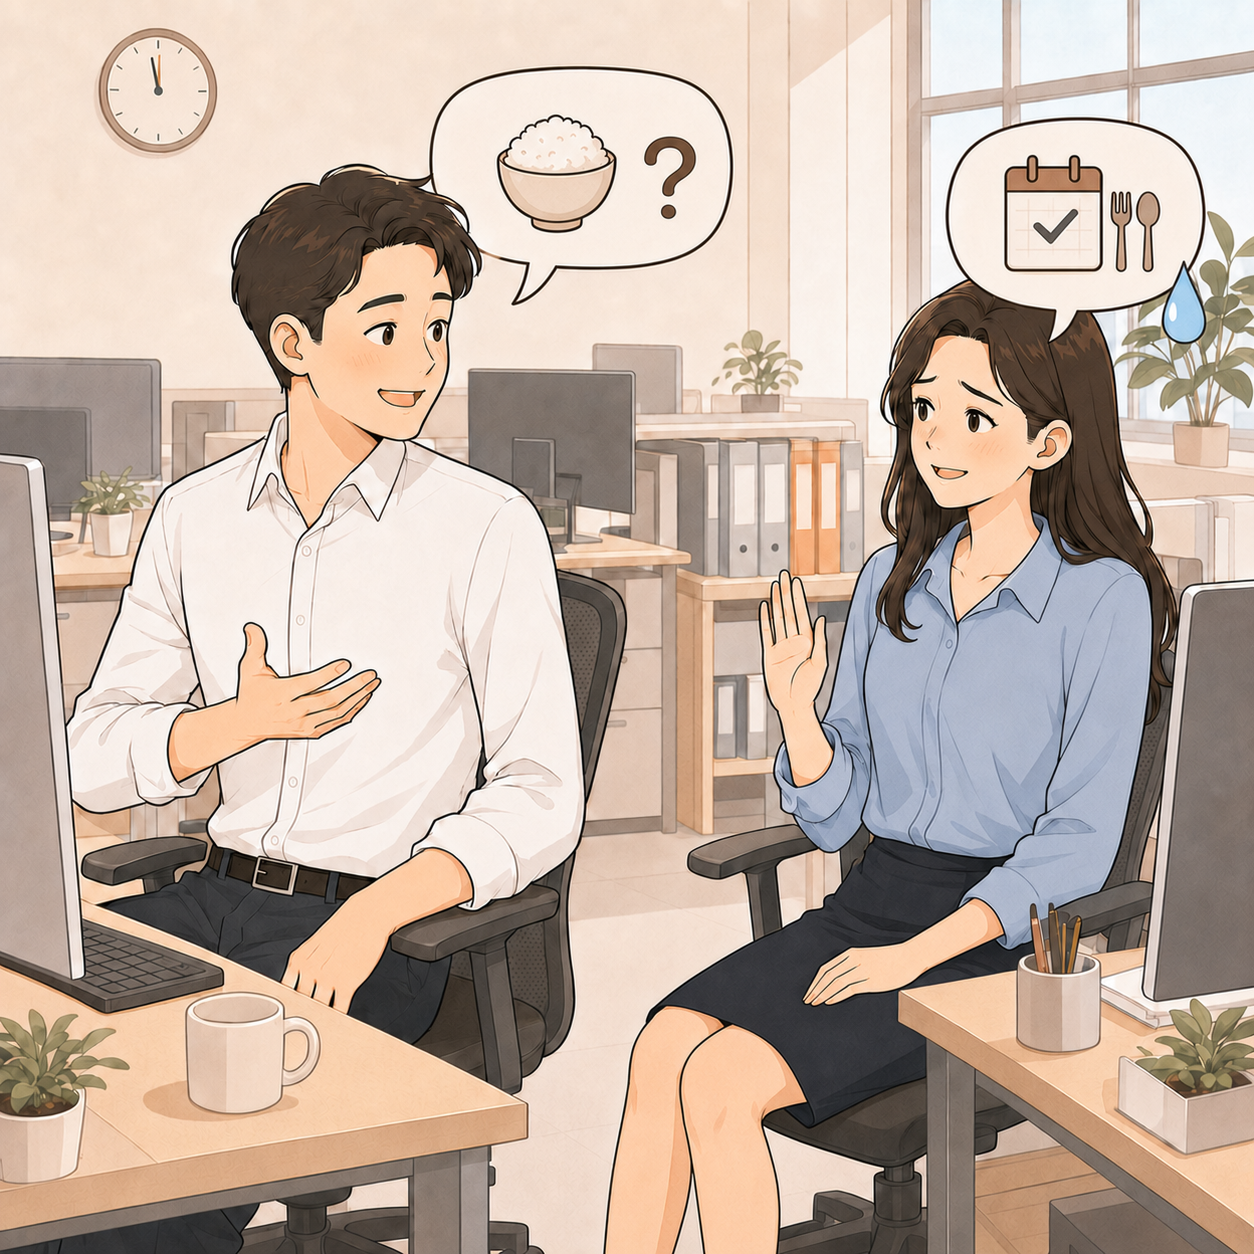
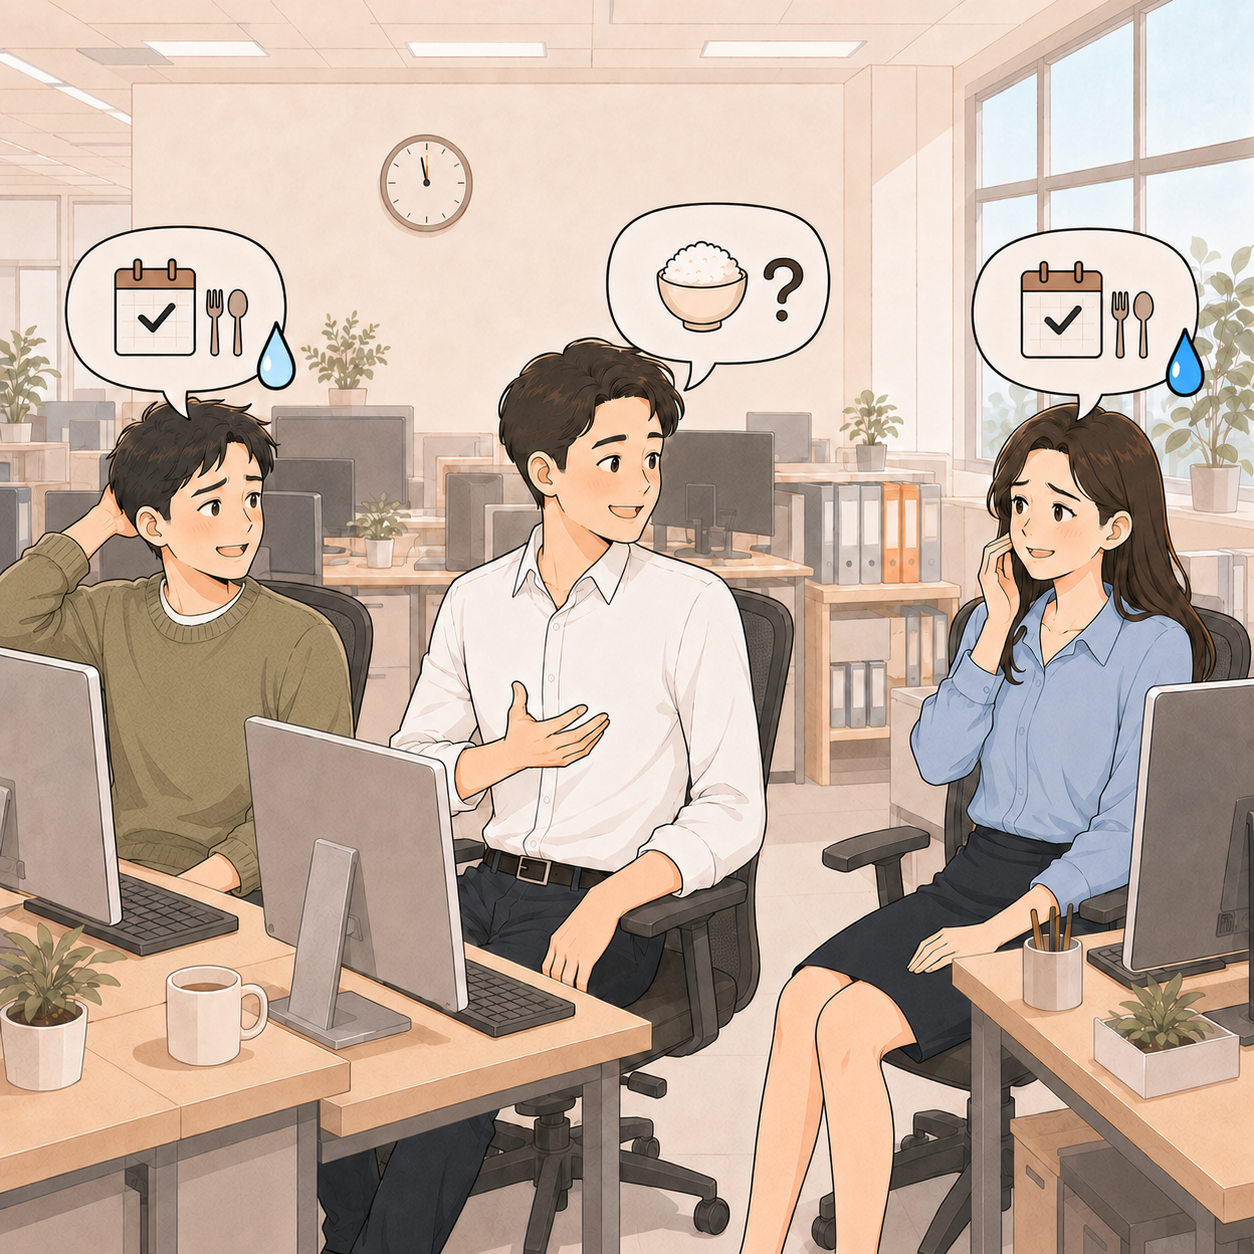
fix: 세션 조회 실패를 로그아웃으로 오인하는 문제 수정, 가이드 첫 화면 문구·이미지 교체
- getSessionUser가 프로필 조회 중 일시적 에러(네트워크 등)를 세션 없음으로 착각해
  로그인 화면으로 튕겨내던 문제를 수정. PGRST116 외 에러는 던지고, UserContext에서
  재시도 후에도 실패해야 비로그인으로 확정하도록 변경
- 안드로이드 앱이 백그라운드에 있는 동안 멈추는 supabase 자동 토큰 갱신을
  appStateChange에 맞춰 직접 켜고 끄도록 추가 (오래 백그라운드에 있다 돌아왔을 때
  토큰 만료로 로그아웃처럼 보이던 문제 방지)
- 온보딩 가이드 첫 화면 이미지·서브 타이틀 교체

diff --git a/src/lib/UserContext.jsx b/src/lib/UserContext.jsx
@@ -4,18 +4,40 @@ import { getSessionUser } from './db'
 
 const UserContext = createContext(null)
 
+const wait = (ms) => new Promise(resolve => setTimeout(resolve, ms))
+
+// getSessionUser()는 세션이 진짜 없을 때만 null을 반환하고, DB 조회가 일시적으로 실패하면
+// 던진다(db.js 참고). 네트워크가 잠깐 끊긴 것뿐인데 그걸 로그아웃으로 오인하지 않도록,
+// 여기서 몇 번 재시도해보고 그래도 안 되면 그때 포기한다.
+async function getSessionUserWithRetry(retries = 2, delayMs = 800) {
+  try {
+    return await getSessionUser()
+  } catch (e) {
+    if (retries <= 0) throw e
+    await wait(delayMs)
+    return getSessionUserWithRetry(retries - 1, delayMs)
+  }
+}
+
 export function UserProvider({ children }) {
   const [user, setUser] = useState(undefined) // undefined = 로딩중
 
   useEffect(() => {
-    // 초기 세션 확인
-    getSessionUser().then(setUser).catch(() => setUser(null))
+    // 초기 세션 확인 — 재시도까지 다 실패하면 그제서야 비로그인으로 확정한다.
+    getSessionUserWithRetry().then(setUser).catch(() => setUser(null))
 
     // 로그인/로그아웃 상태 변경 구독
     const { data: { subscription } } = supabase.auth.onAuthStateChange(async (event) => {
       if (event === 'SIGNED_IN') {
-        const profile = await getSessionUser()
-        setUser(profile)
+        try {
+          const profile = await getSessionUserWithRetry()
+          setUser(profile)
+        } catch (e) {
+          // 로그인 자체는 성공했는데 프로필 조회가 계속 실패하는 경우 — 여기서 null로
+          // 덮어쓰면 애써 로그인한 사용자를 다시 로그인 화면으로 튕겨내게 되니, 기존 상태를
+          // 건드리지 않고 넘어간다(다음 SIGNED_IN이나 재조회 시점에 다시 시도된다).
+          console.error(e)
+        }
       } else if (event === 'SIGNED_OUT') {
         setUser(null)
       }

diff --git a/src/components/NativeDeepLinkHandler.jsx b/src/components/NativeDeepLinkHandler.jsx
@@ -6,6 +6,7 @@ import { Browser } from '@capacitor/browser'
 import { PushNotifications } from '@capacitor/push-notifications'
 import { handleNativeOAuthCallback } from '../lib/db'
 import { takePendingRoute } from '../lib/pendingRoute'
+import { supabase } from '../lib/supabase'
 
 const APP_LINK_HOSTS = ['www.eat-together.net', 'eat-together.net']
 
@@ -80,10 +81,20 @@ export default function NativeDeepLinkHandler() {
       else App.exitApp()
     }).then(handle => { backListenerHandle = handle })
 
+    // 앱이 백그라운드로 가면 JS 타이머가 멈춰서 supabase의 자동 토큰 갱신도 같이 멈춘다.
+    // 오래 백그라운드에 있다가 돌아오면 토큰이 만료된 채로 남아있어 마치 로그아웃된 것처럼
+    // 보이는 문제가 있었다 — 포그라운드/백그라운드 전환에 맞춰 직접 켜고 꺼준다.
+    let stateListenerHandle
+    App.addListener('appStateChange', ({ isActive }) => {
+      if (isActive) supabase.auth.startAutoRefresh()
+      else supabase.auth.stopAutoRefresh()
+    }).then(handle => { stateListenerHandle = handle })
+
     return () => {
       urlListenerHandle?.remove()
       pushActionHandle?.remove()
       backListenerHandle?.remove()
+      stateListenerHandle?.remove()
     }
   }, [navigate])
 

diff --git a/src/lib/db.js b/src/lib/db.js
@@ -173,7 +173,11 @@ export async function getSessionUser() {
     return newProfile
   }
 
-  if (error) return null
+  // PGRST116(행 없음) 외의 에러는 세션이 없다는 뜻이 아니라 조회 자체가 실패했다는 뜻이다.
+  // 여기서 null을 반환하면 호출부(UserContext)가 "로그아웃 상태"로 오인해 로그인 화면으로
+  // 튕겨내는데, 실제로는 supabase 세션이 멀쩡히 살아있는 채로 네트워크만 잠깐 끊긴 경우가
+  // 대부분이다. 진짜 로그인 안 된 상태와 구분할 수 있도록 던져서 호출부가 판단하게 한다.
+  if (error) throw error
   // 최근 로그인 시각 갱신 — 세션 로드를 막지 않도록 결과를 기다리지 않는다.
   supabase.from('users').update({ last_login_at: new Date().toISOString() }).eq('id', data.id).then(() => {})
   return data

diff --git a/src/components/WelcomeGuide.jsx b/src/components/WelcomeGuide.jsx
@@ -13,7 +13,7 @@ const PAGES = [
   {
     shot: guideAsk,
     title: '점약있어요?',
-    body: '점심을 제안했다가 괜히 머쓱했던 순간들.\n\n그런 순간을 조금 더\n편하게 만들고 싶었어요.',
+    body: '서로의 점심 약속을 미리 알고,\n괜히 머쓱해지는 일이\n없었으면 해서 만들었어요.',
   },
   {
     shot: guideGroup,
